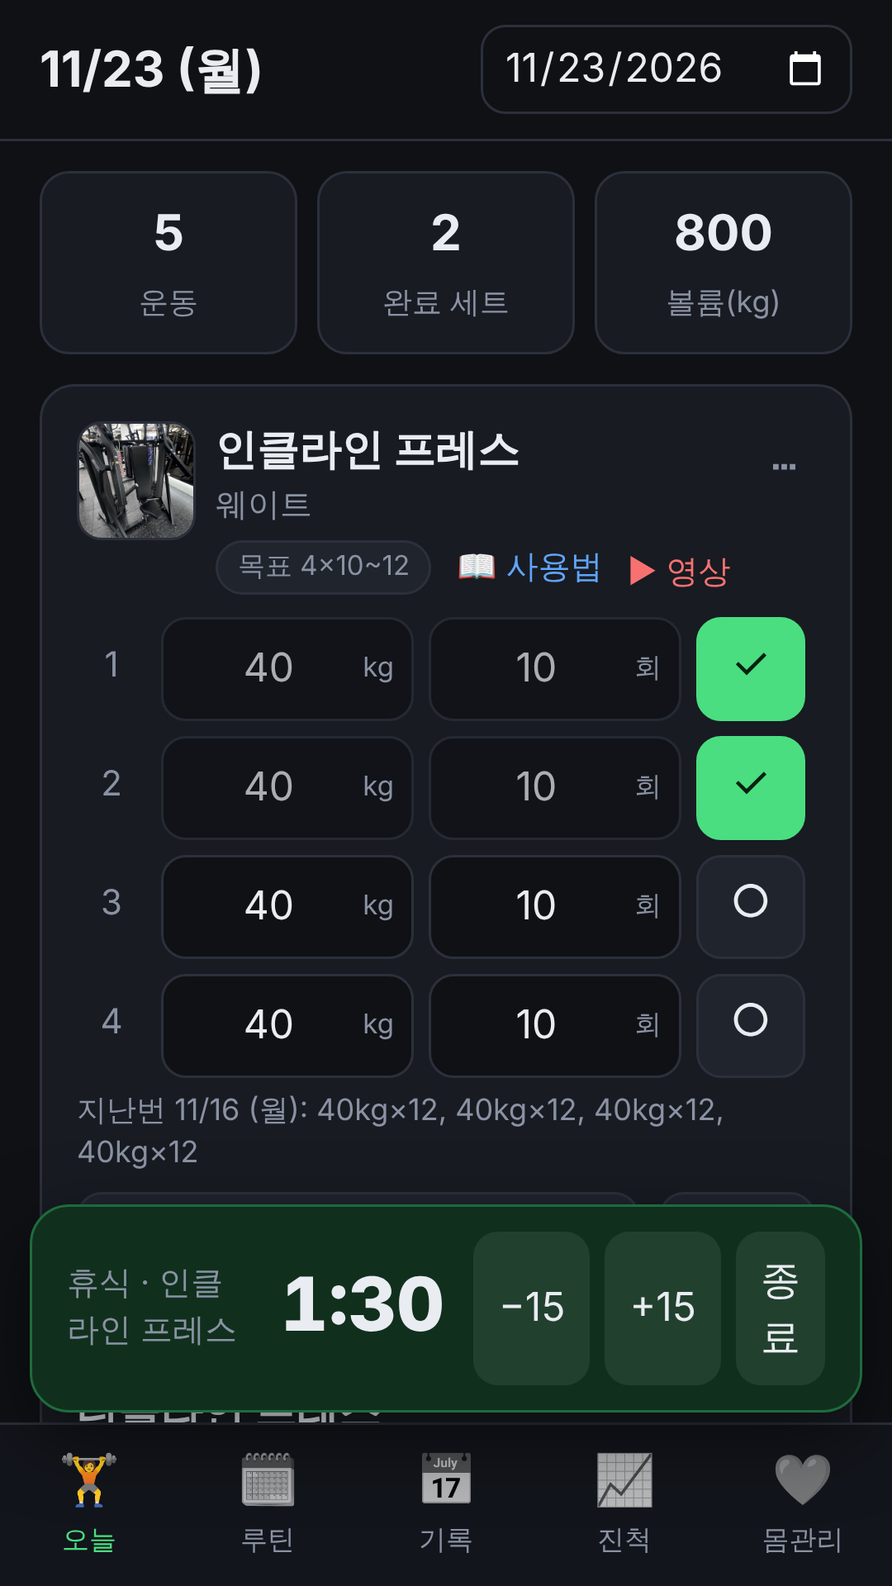
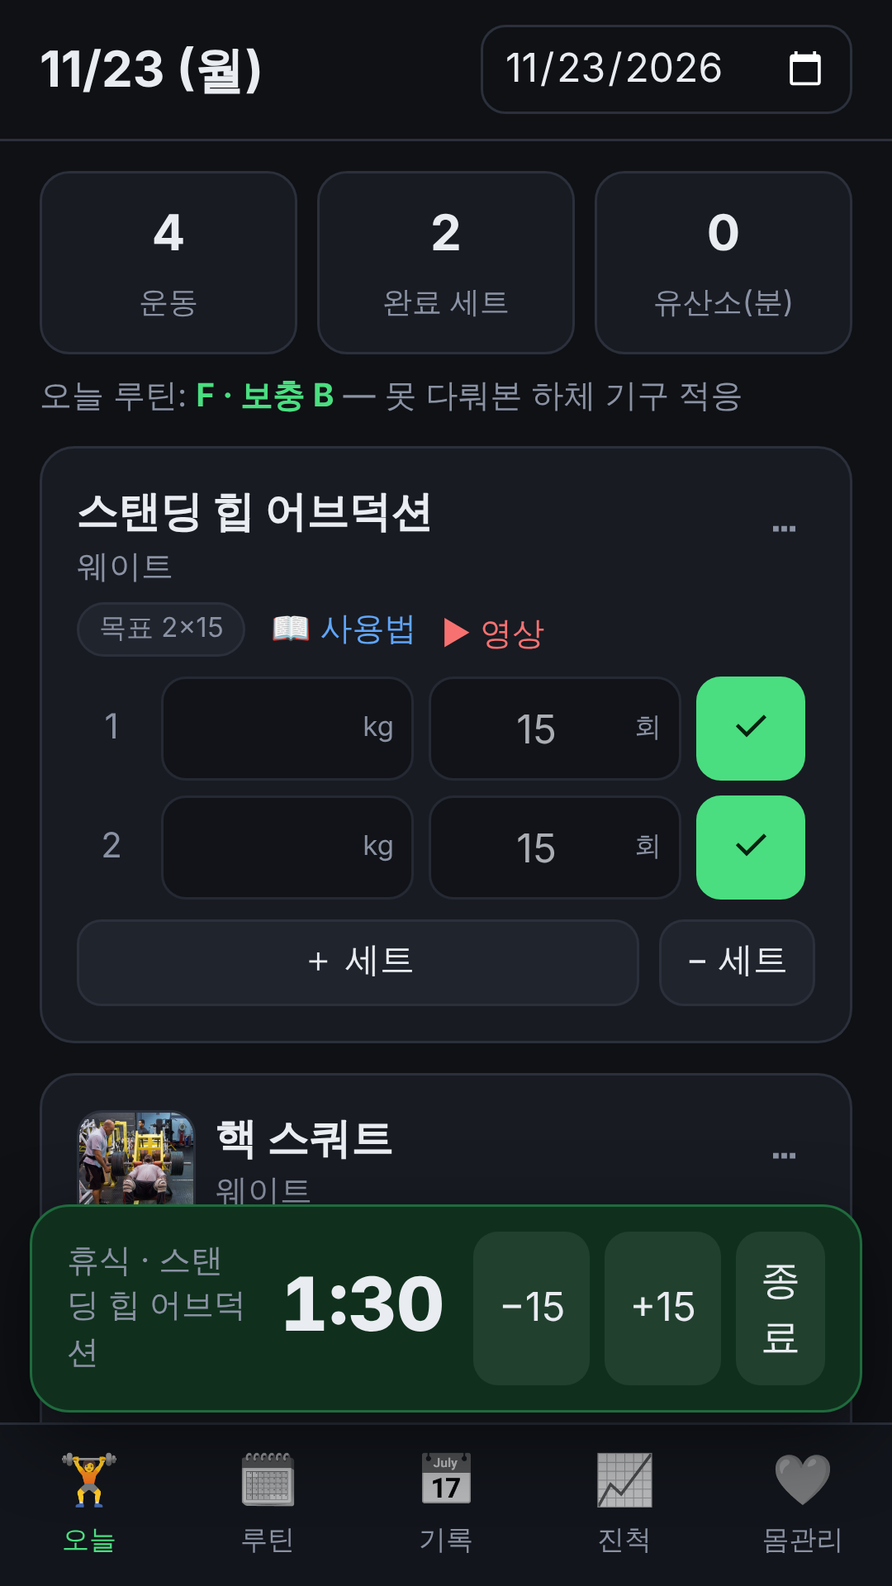
Rotate the routine by sequence (A-G) instead of weekdays
- Routine is now A upper A, B lower B, C upper B, D lower A, E
  supplement A, F supplement B, G recovery, then back to A (keeps the
  Tue/Thu swap order)
- Sessions remember which routine was loaded; the today card and the
  routine tab show the last routine done with its date and suggest the
  next one, each letter shows when it was last done, and the routine
  list shows last time's sets per exercise
- Update store text, screenshots and feature graphic

Claude-Session: https://claude.ai/code/session_01LDayjR7F472AhUoB9hPYN5

diff --git a/workout/app.js b/workout/app.js
@@ -174,17 +174,22 @@ function renderToday() {
       <div class="stat"><b>${st.doneSets}</b><span>완료 세트</span></div>
       <div class="stat"><b>${st.vol ? Math.round(st.vol).toLocaleString() : st.cardio || 0}</b><span>${st.vol ? '볼륨(kg)' : '유산소(분)'}</span></div>
     </div>`;
+    if (s.routineKey) { const D = dayOf(s.routineKey); h += `<div class="muted" style="margin:-4px 0 10px">오늘 루틴: <b class="accent">${s.routineKey} · ${esc(D.label)}</b> — ${esc(D.title)}</div>`; }
     s.entries.forEach((en, i) => { h += entryCard(s, en, i); });
     h += `<label class="field"><span>오늘 메모 (컨디션, 트레이너 피드백 등)</span>
       <textarea data-act="sess-note">${esc(s.note)}</textarea></label>`;
   } else {
-    const dw = new Date(workDate + 'T00:00:00').getDay(); const D = ROUTINE.days[dw];
-    h += `<div class="card routine-hero"><div class="muted">${WEEK[dw]}요일 루틴</div>
-      <h2 style="margin:2px 0 4px">${esc(D.label)} · ${esc(D.title)}</h2>
+    const last = lastRoutine(workDate); const nk = nextKey(last); const D = dayOf(nk);
+    h += `<div class="card routine-hero">
+      ${last ? `<div class="muted">마지막 운동: <b>${last.key} · ${esc(dayOf(last.key).label)}</b> (${fmtDate(last.date)}, ${agoText(last.date, workDate)})</div>` : `<div class="muted">처음 시작하시네요! A부터 차례로 진행합니다.</div>`}
+      <div class="small accent" style="margin-top:8px">다음 순서</div>
+      <h2 style="margin:2px 0 4px">${nk} · ${esc(D.label)} — ${esc(D.title)}</h2>
       <div class="muted">${esc(D.time)} · 강도 ${esc(D.level)}</div>
-      ${D.rest && !D.items.length ? `<p class="small">${esc(D.tip)}</p>` : `<div class="row" style="margin-top:10px">
-        <button class="btn grow" data-act="see-day" data-d="${dw}">루틴 보기</button>
-        <button class="btn primary grow" data-act="load-day" data-d="${dw}"${D.variants ? ' data-v="A"' : ''}>${D.variants ? '보충 A 불러오기' : '오늘 루틴 불러오기'}</button></div>`}
+      <div class="row" style="margin-top:10px">
+        <button class="btn grow" data-act="see-day" data-k="${nk}">루틴 보기</button>
+        <button class="btn primary grow" data-act="load-day" data-k="${nk}">${nk} 불러오기</button></div>
+      <div class="muted" style="margin-top:10px">다른 순서로 하려면</div>
+      <div class="chips" style="margin:6px 0 0">${ROUTINE.seq.map((x) => `<button class="chip ${x.key === nk ? 'on' : ''}" data-act="see-day" data-k="${x.key}">${x.key} ${esc(x.label)}</button>`).join('')}</div>
     </div>`;
     h += `<div class="empty" style="padding:14px">${workDate === today() ? '오늘' : fmtDate(workDate)} 기록이 없습니다. 루틴을 불러오거나 직접 운동을 추가하세요.</div>`;
     const rec = recentExercises(6);
@@ -247,40 +252,67 @@ function addExercise(exId) {
 }
 
 /* ---------- 루틴 ---------- */
-let routineDay = new Date().getDay();
-let routineVar = 'A';
-const altPick = {}; // `${day}-${variant}-${idx}` → 선택한 libId
+let routineKey = null; // 루틴 탭에서 보고 있는 순서 (null = 다음 순서)
+const altPick = {}; // `${key}-${idx}` → 선택한 libId
 const photosOf = (libId) => (typeof PHOTOS !== 'undefined' && PHOTOS[libId]) || [];
 const thumbOf = (ex) => ex.photo || (ex.libId && photosOf(ex.libId)[0]?.src) || '';
 const firstNum = (r) => { const m = String(r).match(/\d+/); return m ? +m[0] : 10; };
-function dayItems(d, v) { const D = ROUTINE.days[d]; return D.variants ? D.variants[v].items : D.items; }
-function itemLib(d, v, i, it) { return altPick[`${d}-${v}-${i}`] || it.id; }
+const dayOf = (k) => ROUTINE.seq.find((x) => x.key === k) || ROUTINE.seq[0];
+function itemLib(k, i, it) { return altPick[`${k}-${i}`] || it.id; }
+// 마지막으로 한 순서: 세트를 1개 이상 완료한 루틴 세션 중 가장 최근 (기준일 포함)
+function lastRoutine(upto) {
+  for (let i = S.sessions.length - 1; i >= 0; i--) {
+    const x = S.sessions[i];
+    if (x.routineKey && x.date <= upto && x.entries.some((e) => e.sets.some((z) => z.done))) return { key: x.routineKey, date: x.date };
+  }
+  return null;
+}
+function nextKey(last) {
+  if (!last) return ROUTINE.seq[0].key;
+  const i = ROUTINE.seq.findIndex((x) => x.key === last.key);
+  return ROUTINE.seq[(i + 1) % ROUTINE.seq.length].key;
+}
+// 순서별 마지막으로 한 날짜
+function lastDateOf(k, upto = today()) {
+  for (let i = S.sessions.length - 1; i >= 0; i--) {
+    const x = S.sessions[i];
+    if (x.routineKey === k && x.date <= upto && x.entries.some((e) => e.sets.some((z) => z.done))) return x.date;
+  }
+  return null;
+}
+function agoText(d, base) {
+  const n = Math.round((new Date(base + 'T00:00:00') - new Date(d + 'T00:00:00')) / 86400000);
+  return n <= 0 ? '오늘' : n === 1 ? '어제' : `${n}일 전`;
+}
 
 function renderRoutine() {
-  const order = [1, 2, 3, 4, 5, 6, 0]; const todayDw = new Date().getDay();
-  const D = ROUTINE.days[routineDay];
+  const last = lastRoutine(today()); const nk = nextKey(last);
+  const k = routineKey || nk; const D = dayOf(k);
   let h = `<div class="card"><h3 style="margin-bottom:2px">${esc(ROUTINE.title)}</h3><div class="muted">${esc(ROUTINE.desc)}</div>
-    <div class="week">${order.map((d) => { const x = ROUTINE.days[d];
-      return `<button class="wd ${d === routineDay ? 'on' : ''} ${x.rest ? 'rest' : ''} ${d === todayDw ? 'is-today' : ''}" data-act="see-day" data-d="${d}"><b>${WEEK[d]}</b><span>${esc(x.label)}</span></button>`; }).join('')}</div></div>`;
-  h += `<div class="card"><div class="muted">${WEEK[routineDay]}요일 · ${esc(D.label)}</div><h2 style="margin:2px 0 4px">${esc(D.title)}</h2>
+    ${last ? `<div class="lastbox">마지막: <b>${last.key} · ${esc(dayOf(last.key).label)}</b> · ${fmtDate(last.date)} (${agoText(last.date, today())}) → 다음: <b class="accent">${nk}</b></div>` : ''}
+    <div class="week">${ROUTINE.seq.map((x) => { const ld = lastDateOf(x.key);
+      return `<button class="wd ${x.key === k ? 'on' : ''} ${x.rest ? 'rest' : ''} ${x.key === nk ? 'is-today' : ''}" data-act="see-day" data-k="${x.key}"><b>${x.key}</b><span>${esc(x.label)}</span><span class="ld">${ld ? ld.slice(5).replace('-', '/') : '-'}</span></button>`; }).join('')}</div>
+    <div class="muted" style="margin-top:6px;font-size:12px">초록 테두리 = 다음 순서 · 아래 날짜 = 마지막으로 한 날</div></div>`;
+  const ld = lastDateOf(k);
+  h += `<div class="card"><div class="muted">${k} · ${esc(D.label)}${k === nk ? ' · <span class="accent">다음 순서</span>' : ''}${ld ? ` · 마지막 ${fmtDate(ld)}` : ' · 아직 안 함'}</div>
+    <h2 style="margin:2px 0 4px">${esc(D.title)}</h2>
     <div class="muted">${esc(D.time)} · 강도 ${esc(D.level)}</div>`;
-  if (D.variants) h += `<div class="chips" style="margin-top:10px">${Object.entries(D.variants).map(([k, v]) => `<button class="chip ${k === routineVar ? 'on' : ''}" data-act="routine-var" data-v="${k}">${esc(v.label)}</button>`).join('')}</div>`;
-  const items = dayItems(routineDay, routineVar);
-  h += items.map((it, i) => {
-    const lid = itemLib(routineDay, routineVar, i, it); const L = LIB[lid]; const ph = photosOf(lid)[0];
+  h += D.items.map((it, i) => {
+    const lid = itemLib(k, i, it); const L = LIB[lid]; const ph = photosOf(lid)[0];
+    const exx = S.exercises.find((e) => e.libId === lid); const pv = exx && lastEntryBefore(exx.id, addDays(today(), 1));
     return `<div class="ritem">
       <div class="rthumb" data-act="guide" data-lib="${lid}">${ph ? `<img src="${ph.src}" alt="">` : `<span>${esc(L.name.slice(0, 2))}</span>`}</div>
       <div class="grow"><div class="ex-name" style="font-size:16px">${i + 1}. ${esc(L.name)}</div>
         <div class="small accent">${it.sets}세트 × ${esc(it.reps)}${/분$/.test(it.reps) ? '' : '회'}</div>
         <div class="muted">${esc(L.target)} · ${esc(L.steps[L.steps.length - 1])}</div>
+        ${pv ? `<div class="prev">지난번 ${fmtDate(pv.date)}: ${pv.entry.sets.filter((x) => x.done).map((x) => setText(exx.type, x)).join(', ')}</div>` : ''}
         ${it.alt ? `<button class="linkbtn" data-act="alt" data-i="${i}">↔ ${esc(LIB[lid === it.id ? it.alt : it.id].name)}(으)로 바꾸기</button>` : ''}
       </div>
       <button class="linkbtn" data-act="guide" data-lib="${lid}">📖</button></div>`;
-  }).join('') || `<p>${esc(D.tip)}</p>`;
-  if (items.length) h += `<p class="muted">💡 ${esc(D.tip)}</p>
-    <button class="btn primary block" data-act="load-day" data-d="${routineDay}" data-v="${routineVar}">오늘 운동으로 불러오기</button>`;
-  h += `</div>`;
-  h += `<div class="card"><h3>운동 규칙</h3>${ROUTINE.rules.map(([k, v]) => `<div class="list-item row between"><b class="small">${esc(k)}</b><span class="small" style="text-align:right">${esc(v)}</span></div>`).join('')}
+  }).join('');
+  h += `<p class="muted">💡 ${esc(D.tip)}</p>
+    <button class="btn primary block" data-act="load-day" data-k="${k}">${k} 오늘 운동으로 불러오기</button></div>`;
+  h += `<div class="card"><h3>운동 규칙</h3>${ROUTINE.rules.map(([a, v]) => `<div class="list-item row between"><b class="small">${esc(a)}</b><span class="small" style="text-align:right">${esc(v)}</span></div>`).join('')}
     <div class="sep"></div>${ROUTINE.notes.map((n) => `<div class="muted" style="margin-bottom:4px">• ${esc(n)}</div>`).join('')}</div>
     <div class="card"><h3>기구 공통 사용 순서</h3><div class="grid2">
       <div><b class="small">상체 기구</b><ol class="steps small">${COMMON_STEPS.upper.map((x) => `<li>${esc(x)}</li>`).join('')}</ol></div>
@@ -301,11 +333,10 @@ function openGuide(libId) {
     ${ex ? `<div style="height:8px"></div><button class="btn primary block" data-act="add-ex" data-id="${ex.id}">오늘 운동에 추가</button>` : ''}`);
 }
 
-function loadDay(d, v) {
-  const items = dayItems(d, v || 'A'); if (!items.length) return;
-  const s = ensureSession(workDate);
-  items.forEach((it, i) => {
-    const lid = itemLib(d, v || 'A', i, it); const L = LIB[lid];
+function loadDay(k) {
+  const D = dayOf(k); const s = ensureSession(workDate);
+  D.items.forEach((it, i) => {
+    const lid = itemLib(k, i, it); const L = LIB[lid];
     const ex = S.exercises.find((e) => e.libId === lid);
     if (s.entries.some((e) => e.exId === ex.id)) return;
     const prev = lastEntryBefore(ex.id, workDate); const lastW = prev ? Math.max(...prev.entry.sets.filter((x) => x.done).map((x) => x.w || 0)) : null;
@@ -313,7 +344,8 @@ function loadDay(d, v) {
     const mk = () => type === 'cardio' ? { min: firstNum(it.reps) } : type === 'hold' ? { s: firstNum(it.reps) * 60 } : { w: lastW || null, r: firstNum(it.reps) };
     s.entries.push({ exId: ex.id, target: `${it.sets}×${it.reps}`, sets: Array.from({ length: it.sets }, () => ({ ...mk(), done: false })) });
   });
-  save(); go('today'); toast('루틴을 불러왔어요');
+  s.routineKey = k; routineKey = null;
+  save(); go('today'); toast(`${k} · ${D.label}을(를) 불러왔어요`);
 }
 
 /* ---------- 운동 선택 모달 ---------- */
@@ -419,7 +451,7 @@ function renderHistory() {
   if (!list.length) h += `<div class="empty">아직 기록이 없습니다.</div>`;
   for (const s of list) {
     const st = sessionStats(s);
-    h += `<div class="card"><div class="row between"><b>${fmtDate(s.date)}</b>
+    h += `<div class="card"><div class="row between"><b>${fmtDate(s.date)}${s.routineKey ? ` · <span class="accent">${s.routineKey} ${esc(dayOf(s.routineKey).label)}</span>` : ''}</b>
       <div class="row"><button class="btn sm" data-act="open-day" data-date="${s.date}">열기</button></div></div>
       <div class="muted">${st.doneSets}세트${st.vol ? ' · ' + Math.round(st.vol).toLocaleString() + 'kg' : ''}${st.cardio ? ' · 유산소 ' + st.cardio + '분' : ''}</div>
       <div style="margin-top:6px">${s.entries.map((en) => {
@@ -810,11 +842,10 @@ document.addEventListener('click', (e) => {
     case 'timer-stop': timer && (timer.onDone = null); return stopTimer();
     case 'open-day': workDate = b.dataset.date; return go('today');
     case 'snap': return snapEquipment();
-    case 'see-day': routineDay = +b.dataset.d; if (tab !== 'routine') go('routine'); else render(); return;
-    case 'routine-var': routineVar = b.dataset.v; return render();
-    case 'alt': { const k = `${routineDay}-${routineVar}-${i}`; const it = dayItems(routineDay, routineVar)[i]; altPick[k] = (altPick[k] || it.id) === it.id ? it.alt : it.id; return render(); }
+    case 'see-day': routineKey = b.dataset.k; if (tab !== 'routine') go('routine'); else render(); return;
+    case 'alt': { const rk = routineKey || nextKey(lastRoutine(today())); const k = `${rk}-${i}`; const it = dayOf(rk).items[i]; altPick[k] = (altPick[k] || it.id) === it.id ? it.alt : it.id; return render(); }
     case 'guide': return openGuide(b.dataset.lib);
-    case 'load-day': return loadDay(+b.dataset.d, b.dataset.v);
+    case 'load-day': return loadDay(b.dataset.k);
     case 'care-sub': careSub = b.dataset.k; return render();
     case 'credits': return openCredits();
     case 'go-settings': closeModal(); go('history'); setTimeout(() => $('#apiKey')?.scrollIntoView({ block: 'center' }), 50); return;

diff --git a/workout/program.js b/workout/program.js
@@ -1,7 +1,6 @@
 /* 자기관리해요 — 기본 루틴 · 기구 사용법 데이터
- * 루틴: "헬스장 기구 기반 2분할 4일 루틴" (화·목 순서 변경판)
- *   월 상체 A(미는 날) · 화 하체 B(엉덩이 펴는 날) · 수 상체 B(당기는 날) · 목 하체 A(무릎 굽히는 날)
- *   금 회복 · 토 완전 휴식 · 일 보충 A/B
+ * 루틴: "헬스장 기구 기반 2분할 루틴" (요일 대신 A→G 순서, 원본의 화·목 순서 변경 반영)
+ *   A 상체A · B 하체B · C 상체B · D 하체A · E 보충A · F 보충B · G 회복
  * 사진: img/ 폴더. 출처·라이선스는 각 사진의 credit 과 앱 '사진 출처' 화면에 표시.
  */
 'use strict';
@@ -74,52 +73,51 @@ const LIB = {
     steps: ['부위당 20~30초 반동 없이 유지', '통증이 아닌 당기는 느낌까지만'] },
 };
 
-/* 주간 루틴 (요일 index: 0=일 … 6=토). alt = 대체 가능 운동 */
+/* 순서 루틴: 요일과 상관없이 A → B → … → G → 다시 A. 마지막에 한 다음 순서를 이어서 한다.
+ * (원본 PPT의 화·목 순서를 바꿔 B=하체B, D=하체A) alt = 대체 가능 운동 */
 const ROUTINE = {
-  id: 'split2x4',
-  title: '기구 2분할 4일 루틴',
-  desc: '월·화·수·목 상체/하체 교대 4일, 금 회복 · 토 휴식, 일요일은 평소 못 다뤄본 기구 보충',
-  days: {
-    1: { label: '상체 A', title: '가슴·어깨, 미는 날', time: '5종목 · 55분', level: '중상',
+  id: 'split2x4seq',
+  title: '기구 2분할 순서 루틴',
+  desc: '요일 상관없이 A부터 G까지 차례로. 마지막에 한 다음 순서를 이어서 하세요.',
+  seq: [
+    { key: 'A', label: '상체 A', title: '가슴·어깨, 미는 날', time: '5종목 · 55분', level: '중상',
       tip: '무게는 12회를 깔끔하게 마칠 수 있는 수준에서 시작하세요.',
       items: [
         { id: 'incline_press', sets: 4, reps: '10~12' }, { id: 'decline_press', sets: 3, reps: '10~12' },
         { id: 'pec_fly', sets: 3, reps: '12~15' }, { id: 'shoulder_press', sets: 3, reps: '10~12' },
         { id: 'bent_lateral', sets: 3, reps: '15' }] },
-    2: { label: '하체 B', title: '햄스트링·둔근, 펴는 날', time: '5종목 · 55분', level: '중상',
+    { key: 'B', label: '하체 B', title: '햄스트링·둔근, 펴는 날', time: '5종목 · 55분', level: '중상',
       tip: '힙 운동은 허리를 꺾는 대신 엉덩이 수축으로 끝까지 버티는 게 핵심입니다.',
       items: [
         { id: 'hip_thrust', sets: 4, reps: '10~12' }, { id: 'monster_glute', sets: 3, reps: '12' },
         { id: 'standing_thrust', sets: 3, reps: '12' }, { id: 'leg_curl', sets: 3, reps: '12~15' },
         { id: 'hip_add', sets: 3, reps: '20' }] },
-    3: { label: '상체 B', title: '등·후면어깨, 당기는 날', time: '5종목 · 55분', level: '중상',
+    { key: 'C', label: '상체 B', title: '등·후면어깨, 당기는 날', time: '5종목 · 55분', level: '중상',
       tip: '당길 때 어깨가 으쓱 올라가면 무게를 한 단계 낮추세요.',
       items: [
         { id: 'front_pulldown', sets: 4, reps: '10~12' }, { id: 'mts_row', sets: 3, reps: '10~12' },
         { id: 'high_row', sets: 3, reps: '12' }, { id: 'tbar_row', sets: 3, reps: '10' },
         { id: 'rear_delt', sets: 3, reps: '15' }] },
-    4: { label: '하체 A', title: '대퇴사두·둔근, 미는 날', time: '5종목 · 55분', level: '중상',
+    { key: 'D', label: '하체 A', title: '대퇴사두·둔근, 미는 날', time: '5종목 · 55분', level: '중상',
       tip: '하체는 첫 세트를 가볍게 15회 돌려 관절을 데운 뒤 본세트로 들어갑니다.',
       items: [
         { id: 'leg_press', sets: 4, reps: '10~12' }, { id: 'hack_squat', sets: 3, reps: '10' },
         { id: 'squat_press', sets: 3, reps: '12' }, { id: 'leg_ext', sets: 3, reps: '15' },
         { id: 'hip_abd', sets: 3, reps: '20' }] },
-    5: { label: '회복', title: '가볍게 회복하는 날', time: '30~40분', level: '하', rest: true,
-      tip: '걷기와 스트레칭으로 혈액순환만 돕습니다.',
+    { key: 'E', label: '보충 A', title: '못 다뤄본 상체 기구 적응', time: '4종목 · 2세트', level: '하',
+      tip: 'RPE 6~7 · 세트 사이 60초 · 자세 익히기가 목적입니다.',
+      items: [
+        { id: 'assist_pullup', alt: 'wide_pulldown', sets: 2, reps: '12' }, { id: 'iso_row', sets: 2, reps: '12' },
+        { id: 'long_pull', alt: 'tbar_row', sets: 2, reps: '12' }, { id: 'bent_lateral', sets: 2, reps: '15' }] },
+    { key: 'F', label: '보충 B', title: '못 다뤄본 하체 기구 적응', time: '4종목 · 2세트', level: '하',
+      tip: 'RPE 6~7 · 통증 없는 범위에서만 움직이세요.',
+      items: [
+        { id: 'standing_abd', sets: 2, reps: '15' }, { id: 'hack_squat', sets: 2, reps: '10' },
+        { id: 'squat_press', sets: 2, reps: '12' }, { id: 'hip_add', alt: 'leg_curl', sets: 2, reps: '15' }] },
+    { key: 'G', label: '회복', title: '가볍게 회복하는 날', time: '30~40분', level: '하', rest: true,
+      tip: '걷기와 스트레칭으로 혈액순환만 돕습니다. 수면 7시간 이상 · 단백질 보충.',
       items: [{ id: 'walk', sets: 1, reps: '20~30분' }, { id: 'foam_roller', sets: 1, reps: '10분' }, { id: 'stretch', sets: 1, reps: '10분' }] },
-    6: { label: '완전 휴식', title: '쉬는 것도 운동', time: '-', level: '-', rest: true,
-      tip: '수면 7시간 이상 · 단백질 보충 · 가벼운 산책', items: [] },
-    0: { label: '보충 A/B', title: '평소 못 다뤄본 기구 적응', time: '3~4종 · 2세트', level: '하',
-      tip: 'RPE 6~7 · 세트 사이 60초 · 새 기구는 최저 중량으로 자세 익히기',
-      variants: {
-        A: { label: '보충 A · 상체', items: [
-          { id: 'assist_pullup', alt: 'wide_pulldown', sets: 2, reps: '12' }, { id: 'iso_row', sets: 2, reps: '12' },
-          { id: 'long_pull', alt: 'tbar_row', sets: 2, reps: '12' }, { id: 'bent_lateral', sets: 2, reps: '15' }] },
-        B: { label: '보충 B · 하체', items: [
-          { id: 'standing_abd', sets: 2, reps: '15' }, { id: 'hack_squat', sets: 2, reps: '10' },
-          { id: 'squat_press', sets: 2, reps: '12' }, { id: 'hip_add', alt: 'leg_curl', sets: 2, reps: '15' }] },
-      } },
-  },
+  ],
   rules: [
     ['준비', '유산소 5분 + 해당 부위 가벼운 2세트'],
     ['세트·반복', '3~4세트 · 10~15회 · 마지막 1회가 힘든 무게'],
@@ -128,7 +126,8 @@ const ROUTINE = {
     ['중단', '찌르는 통증 · 어지럼 · 호흡 곤란 시 즉시 중단'],
   ],
   notes: [
-    '4일을 연속으로 못 지킬 경우 순서를 유지한 채 하루씩 밀어도 효과는 같습니다.',
+    '날짜와 상관없이 마지막에 한 다음 순서를 이어서 하세요. 하루 쉬어도 순서는 그대로입니다.',
+    '쉬는 날은 따로 정하지 않습니다. 몸이 무거운 날은 쉬고, 다음에 이어서 하세요.',
     '3주 동안 같은 루틴이 지루해지면 종목을 1개씩만 교체합니다.',
     '통증이 2회 이상 반복되면 그 기구는 과감히 빼세요.',
     '처음 쓰는 기구는 빈 판(최저 중량)으로 10회, 자세를 눈으로 확인한 뒤 시작합니다.',

diff --git a/workout/style.css b/workout/style.css
@@ -193,3 +193,6 @@ a.btn { display: block; text-align: center; text-decoration: none; color: var(--
 .chips.seg { margin-bottom: 12px; }
 .ex-thumb[data-act] { cursor: pointer; }
 .wd.is-today { border-color: var(--accent); border-width: 2px; }
+.week { grid-template-columns: repeat(7, 1fr); }
+.wd .ld { font-size: 10px; opacity: .8; }
+.lastbox { margin-top: 10px; padding: 8px 10px; border-radius: 10px; background: var(--card2); font-size: 14px; }

diff --git a/store/README.md b/store/README.md
@@ -16,17 +16,17 @@
 자기관리해요
 
 **간단한 설명 (80자 이내)**
-기구 사진과 함께 배우는 주 4일 분할 루틴. 세트 기록·휴식 타이머·몸 변화 그래프까지 한 번에.
+기구 사진과 함께 배우는 A~G 순서 분할 루틴. 세트 기록·휴식 타이머·몸 변화 그래프까지.
 
 **자세한 설명 (4,000자 이내)**
 ```
 헬스장 기구, 어떻게 쓰는지 몰라서 늘 쓰던 것만 쓰고 계신가요?
 ‘자기관리해요’는 기구 사진과 쉬운 설명으로 운동 루틴을 따라 하고, 매일의 기록과 몸의 변화를 한곳에서 관리하는 앱입니다.
 
-■ 바로 따라 하는 주 4일 분할 루틴
-· 월 상체 A(가슴·어깨, 미는 날) / 화 하체 B(둔근·햄스트링) / 수 상체 B(등, 당기는 날) / 목 하체 A(대퇴사두)
-· 금 회복, 토 휴식, 일요일은 평소 안 써본 기구로 보충
-· 오늘 요일에 맞는 루틴을 버튼 한 번으로 불러와 세트·횟수가 자동으로 채워집니다
+■ 요일 걱정 없는 순서 루틴
+· A 상체(미는 날) → B 하체(둔근) → C 상체(당기는 날) → D 하체(대퇴) → E·F 새 기구 적응 → G 회복
+· 마지막에 한 운동과 날짜를 보여 주고, 다음 순서를 자동으로 추천
+· 버튼 한 번으로 불러오면 세트·횟수와 지난번 무게가 채워집니다
 
 ■ 기구 사진 + 쉬운 사용법
 · 기구마다 사진과 3단계 사용법, 공통 사용 순서(시트 높이 → 자세 → 호흡)

diff --git a/workout/README.md b/workout/README.md
@@ -4,7 +4,7 @@
 설치 없이 폰 브라우저에서 열고 **홈 화면에 추가**하면 앱처럼 동작하며, 오프라인에서도 사용 가능.
 
 ## 기능
-- **🗓 루틴**: 기구 2분할 4일 루틴 (월 상체A · 화 하체B · 수 상체B · 목 하체A · 금 회복 · 토 휴식 · 일 보충 A/B). 요일별 운동·세트·횟수, 버튼 한 번으로 오늘 운동에 불러오기, 대체 운동 바꾸기
+- **🗓 루틴**: 요일 대신 순서로 도는 기구 2분할 루틴 (A 상체A → B 하체B → C 상체B → D 하체A → E 보충A → F 보충B → G 회복 → 다시 A). 마지막으로 한 순서·날짜를 보여 주고 다음 순서를 추천, 버튼 한 번으로 불러오기, 대체 운동 바꾸기
 - **📖 기구 사용법**: 기구 사진 + 3단계 사용법 + 공통 사용 순서 + 유튜브 영상 (사진 출처는 앱 '사진 출처' 화면)
 - **💚 몸관리**: 신체 측정 그래프, 컨디션·통증 기록, 내 과제 체크리스트
 - **📷 기구 사진으로 추가**: 운동 추가 → 사진 찍기 → Claude가 기구를 알아보고 운동 이름·부위·자세 포인트·유튜브 사용법 링크를 만들어 바로 추가 (기록 탭 설정에 본인 Claude API 키 필요, 키는 폰에만 저장되고 백업 파일에 포함되지 않음)
